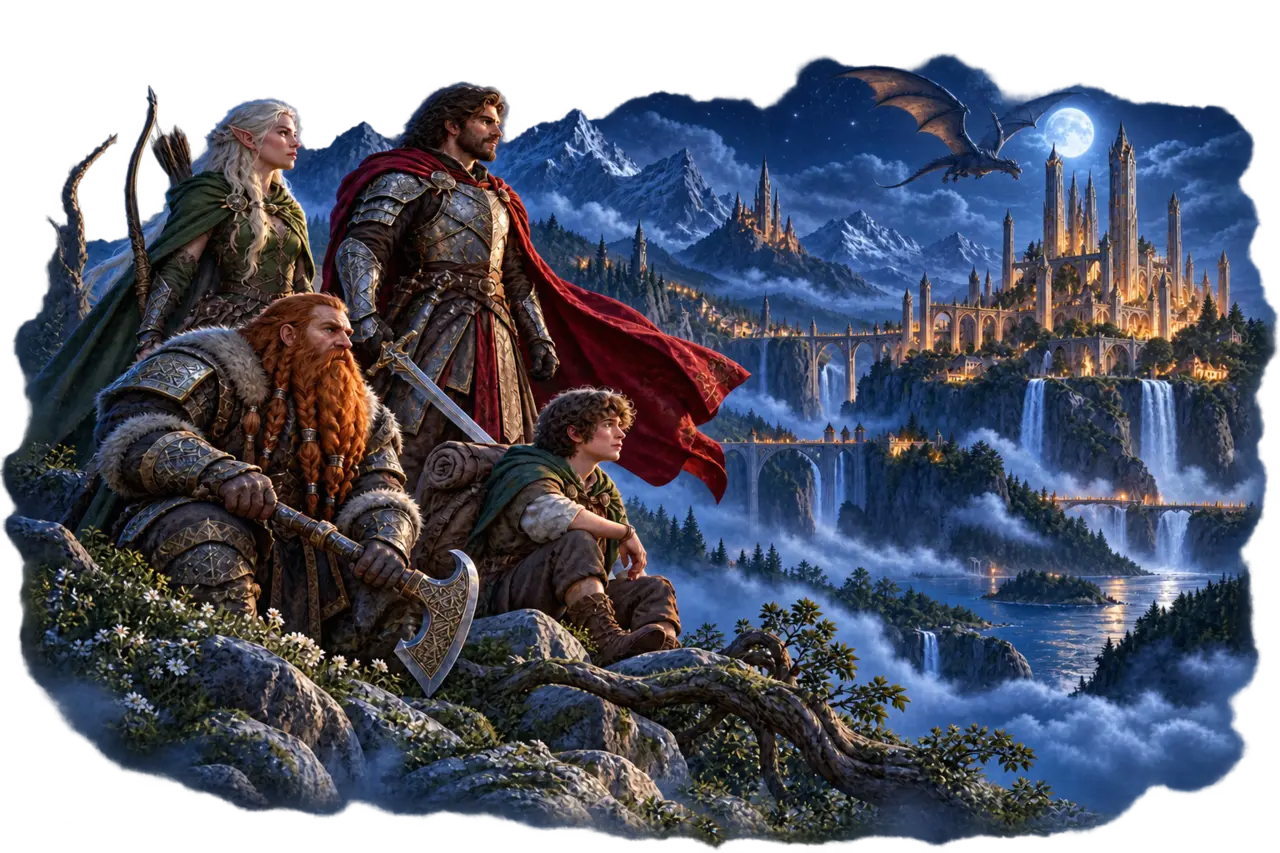
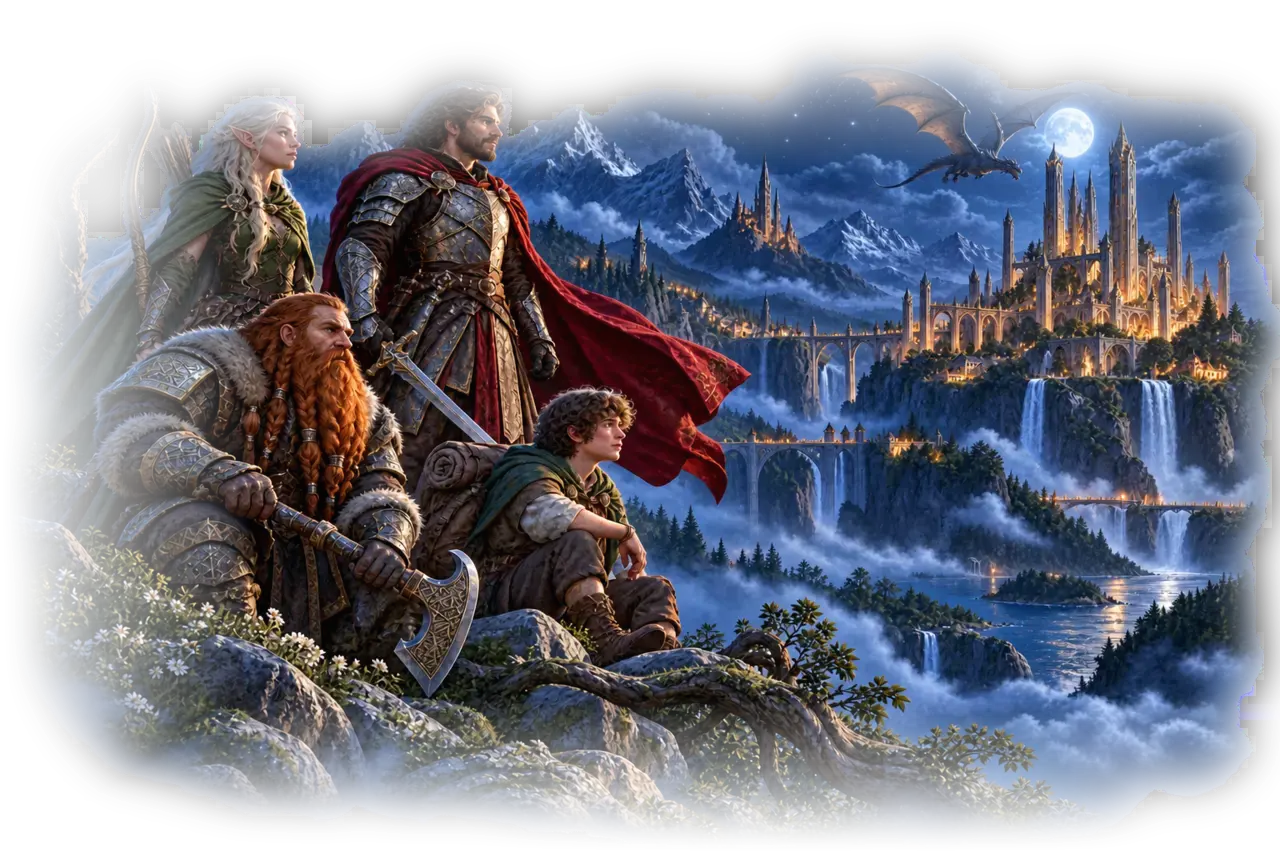
fix: bake night hero fade into artwork

diff --git a/app/globals.css b/app/globals.css
@@ -1587,7 +1587,7 @@ footer { min-height: 45px; padding: 13px 28px; border-top: 1px solid rgba(185,11
 .home-hero-copy{width:56%;min-height:560px;padding:38px 0 34px 8px}
 .home-hero-copy h1{font-size:clamp(48px,5.4vw,78px)}
 .home-hero-art{position:absolute;z-index:0;inset:0 -1% 0 auto;width:61%;height:100%;overflow:visible}
-.home-hero-art img{right:0;width:100%;height:100%;object-fit:contain;object-position:right center;-webkit-mask-image:linear-gradient(90deg,transparent 0,rgba(0,0,0,.18) 12%,#000 34%),linear-gradient(270deg,transparent 0,rgba(0,0,0,.18) 9%,#000 25%),linear-gradient(180deg,transparent 0,rgba(0,0,0,.2) 10%,#000 25%),linear-gradient(0deg,transparent 0,rgba(0,0,0,.18) 10%,#000 24%);-webkit-mask-composite:source-in,source-in,source-in;mask-image:linear-gradient(90deg,transparent 0,rgba(0,0,0,.18) 12%,#000 34%),linear-gradient(270deg,transparent 0,rgba(0,0,0,.18) 9%,#000 25%),linear-gradient(180deg,transparent 0,rgba(0,0,0,.2) 10%,#000 25%),linear-gradient(0deg,transparent 0,rgba(0,0,0,.18) 10%,#000 24%);mask-composite:intersect,intersect,intersect}
+.home-hero-art img{right:0;width:100%;height:100%;object-fit:contain;object-position:right center;-webkit-mask-image:none;mask-image:none}
 .home-hero-art::after{display:none}
 .modern-design .home-hero{border:0;background:transparent;box-shadow:none}
 .modern-design .home-hero-art::after{display:none}
@@ -1609,4 +1609,4 @@ footer { min-height: 45px; padding: 13px 28px; border-top: 1px solid rgba(185,11
 .modern-design .hb-library-actions .hb-library-delete,.modern-design .hb-delete-saved{background:#981f26!important;border-color:#981f26!important;color:#fff!important}
 
 @media(max-width:1050px){.home-hero-copy{width:62%}.home-hero-art{width:58%}.home-quick-actions{grid-template-columns:repeat(3,minmax(0,1fr))}}
-@media(max-width:760px){.home-page{width:100%;padding-top:0}.home-hero{min-height:0;overflow:hidden}.home-hero-copy{width:100%;min-height:0;padding:34px 20px 285px}.home-hero-copy h1{font-size:43px}.home-hero-art{inset:auto -2% 0 auto;width:100%;height:300px}.home-hero-art img{object-fit:contain;object-position:right bottom;-webkit-mask-image:linear-gradient(180deg,transparent 0,rgba(0,0,0,.75) 28%,#000 48%,rgba(0,0,0,.88) 78%,transparent 100%);mask-image:linear-gradient(180deg,transparent 0,rgba(0,0,0,.75) 28%,#000 48%,rgba(0,0,0,.88) 78%,transparent 100%)}.app-shell[data-site-theme="parchment"] .home-hero-art img{-webkit-mask-image:linear-gradient(180deg,transparent 0,rgba(0,0,0,.75) 28%,#000 48%,rgba(0,0,0,.88) 82%,transparent 100%);mask-image:linear-gradient(180deg,transparent 0,rgba(0,0,0,.75) 28%,#000 48%,rgba(0,0,0,.88) 82%,transparent 100%)}.home-quick-actions{grid-template-columns:1fr;border-bottom:0}.home-quick-actions button,.home-quick-actions button:first-child{padding:12px 0;border:0;border-bottom:1px solid color-mix(in srgb,var(--line) 58%,transparent)}.home-benefits{border-left:0;border-right:0}.home-lower .contact-card,.home-lower .special-thanks{padding-left:0;padding-right:0}.hb-library-actions .hb-library-delete{grid-column:1/-1}}
+@media(max-width:760px){.home-page{width:100%;padding-top:0}.home-hero{min-height:0;overflow:hidden}.home-hero-copy{width:100%;min-height:0;padding:34px 20px 285px}.home-hero-copy h1{font-size:43px}.home-hero-art{inset:auto -2% 0 auto;width:100%;height:300px}.home-hero-art img{object-fit:contain;object-position:right bottom}.home-quick-actions{grid-template-columns:1fr;border-bottom:0}.home-quick-actions button,.home-quick-actions button:first-child{padding:12px 0;border:0;border-bottom:1px solid color-mix(in srgb,var(--line) 58%,transparent)}.home-benefits{border-left:0;border-right:0}.home-lower .contact-card,.home-lower .special-thanks{padding-left:0;padding-right:0}.hb-library-actions .hb-library-delete{grid-column:1/-1}}
